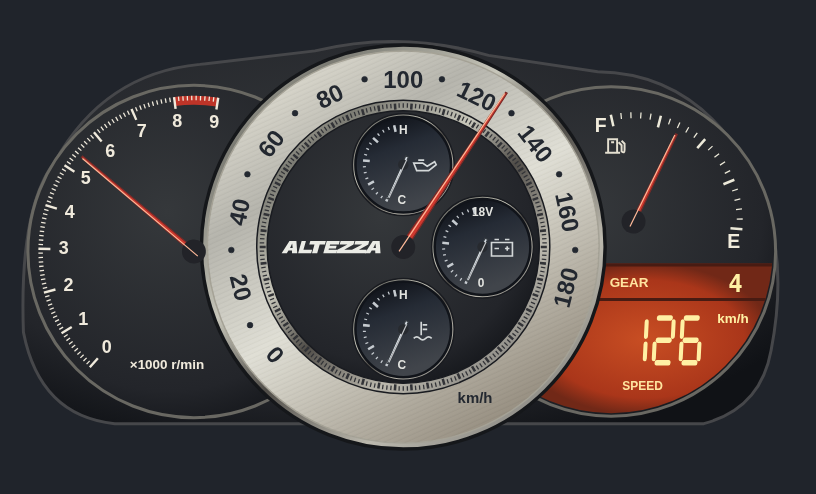
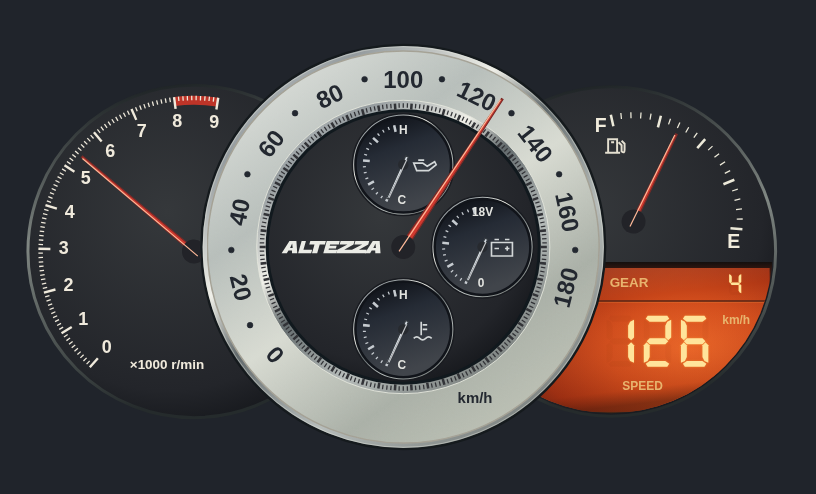
fix(hud): refine Altezza period materials and LCD layering

diff --git a/hud_overlay/altezza_trd/index.html b/hud_overlay/altezza_trd/index.html
@@ -8,6 +8,13 @@
     <style>
         #altezzaContainer { position: relative; width: 545px; height: 330px; pointer-events: none; }
         #altezzaPlate, #altezzaCanvas { position: absolute; inset: 0; width: 100%; height: 100%; }
+        .lcd-units {
+            position: absolute; left: 477px; top: 209px; width: 24px; height: 10px;
+            color: #e8b46e; font: 600 8px/10px Arial, sans-serif; text-align: right;
+        }
+        .lcd-units span { display: none; }
+        #altezzaCanvas[data-speed-unit="kmh"] + .lcd-units .kmh,
+        #altezzaCanvas[data-speed-unit="mph"] + .lcd-units .mph { display: block; }
     </style>
 </head>
 <body>
@@ -15,7 +22,8 @@
     <div class="hud-root-wrapper">
         <div class="hud-gauge-container" id="altezzaContainer">
             <img id="altezzaPlate" src="assets/chronograph.svg" alt="">
-            <canvas id="altezzaCanvas" width="545" height="330" aria-label="Toyota Altezza chronograph"></canvas>
+            <canvas id="altezzaCanvas" width="545" height="330" aria-label="Toyota Altezza chronograph" data-speed-unit="kmh"></canvas>
+            <div class="lcd-units"><span class="kmh">km/h</span><span class="mph">mph</span></div>
         </div>
     </div>
     <script src="../shared/hud-core.js"></script>
@@ -118,35 +126,62 @@
                 ctx.restore();
             }
 
-            // The seven segments occupy a fixed-width cell, so the units never move.
-            const segments = [
-                [2, 1, 10, 1], [12, 3, 12, 10], [12, 14, 12, 21], [2, 23, 10, 23],
-                [0, 14, 0, 21], [0, 3, 0, 10], [2, 12, 10, 12]
+            // One 14 × 26 cell defines the electrode proportions at every size.
+            // The extra strokes allow full-height N and R in the same segmented display.
+            const electrodes = [
+                [[2, 0], [12, 0], [13, 1.5], [11, 3], [3, 3], [1, 1.5]],
+                [[12, 3], [14, 2], [14, 11], [12.5, 12.5], [11, 11], [11, 5]],
+                [[12.5, 13.5], [14, 15], [14, 24], [12, 23], [11, 21], [11, 15]],
+                [[3, 23], [11, 23], [13, 24.5], [12, 26], [2, 26], [1, 24.5]],
+                [[1.5, 13.5], [3, 15], [3, 21], [2, 23], [0, 24], [0, 15]],
+                [[0, 2], [2, 3], [3, 5], [3, 11], [1.5, 12.5], [0, 11]],
+                [[3, 11.5], [11, 11.5], [12.5, 13], [11, 14.5], [3, 14.5], [1.5, 13]],
+                [[3.5, 4], [5.5, 4.5], [10.5, 21], [8.5, 20.5]],
+                [[7, 15], [9, 15], [11, 21], [10, 23]]
             ];
-            const digits = ['012345', '12', '01643', '01623', '5612', '05623', '056423', '012', '0123456', '012356'];
-            function lcd(value, gear) {
-                const readout = value === null ? '---' : String(Math.round(value));
+            const glyphs = {
+                '0': '012345', '1': '12', '2': '01643', '3': '01623', '4': '5612',
+                '5': '05623', '6': '056423', '7': '012', '8': '0123456', '9': '012356',
+                R: '015648', N: '12457', H: '12456', I: '12', '-': '6'
+            };
+            function lcdCharacters(text, right, top, height) {
+                const scale = height / 26;
+                const advance = 19;
                 ctx.save();
-                ctx.strokeStyle = ctx.fillStyle = '#fff0a4';
-                ctx.lineWidth = 2.7;
-                ctx.lineCap = 'round';
-                ctx.textAlign = 'right';
-                ctx.font = 'bold 16px monospace';
-                ctx.fillText(gear, 496, 195);
-                ctx.font = 'bold 9px sans-serif';
-                ctx.fillText(unit === 'mph' ? 'mph' : 'km/h', 500, 216);
-                ctx.translate(474 - readout.length * 18, 211);
-                ctx.transform(1, 0, -.07, 1.36, 0, 0);
-                for (const char of readout) {
-                    for (const index of digits[char] || '6') {
-                        const [x1, y1, x2, y2] = segments[index];
+                ctx.translate(right - ((text.length - 1) * advance + 14) * scale, top);
+                ctx.scale(scale, scale);
+                for (const char of text) {
+                    const active = glyphs[char] || glyphs['-'];
+                    electrodes.forEach((polygon, index) => {
+                        // Faint unlit electrodes are visible through the tinted glass.
+                        if (index > 6 && !active.includes(String(index))) return;
+                        const lit = active.includes(String(index));
+                        ctx.fillStyle = lit ? '#ffe49b' : 'rgba(85, 31, 12, .035)';
+                        ctx.shadowColor = 'rgba(255, 165, 58, .55)';
+                        ctx.shadowBlur = lit ? 1.8 * scale : 0;
                         ctx.beginPath();
-                        ctx.moveTo(x1, y1);
-                        ctx.lineTo(x2, y2);
-                        ctx.stroke();
-                    }
-                    ctx.translate(18, 0);
+                        polygon.forEach(([x, y], point) => point ? ctx.lineTo(x, y) : ctx.moveTo(x, y));
+                        ctx.closePath();
+                        ctx.fill();
+                    });
+                    ctx.translate(advance, 0);
                 }
+                ctx.restore();
+            }
+
+            function lcd(value, gear) {
+                const speed = value === null ? '---' : value > 999 ? 'HI' : String(Math.round(value));
+                ctx.save();
+                // Clip all LCD contents to its glass and the right-hand circular aperture.
+                ctx.beginPath();
+                ctx.arc(408, 168, 108, 0, Math.PI * 2);
+                ctx.clip();
+                ctx.beginPath();
+                ctx.rect(397, 179, 117, 96);
+                ctx.clip();
+                lcdCharacters(gear, 495, 182, 15);
+                lcdCharacters(speed, 473, 211, 34);
+                canvas.setAttribute('data-speed-unit', unit === 'mph' ? 'mph' : 'kmh');
                 ctx.restore();
             }
 
@@ -155,13 +190,21 @@
                 const speedRatio = clamp(state.speed / 180);
                 const rpmRatio = clamp(state.rpm / state.ceiling);
                 drawTachScale(state);
+                // Side instruments sit behind the central bezel, including their hands and hubs.
+                ctx.save();
+                ctx.beginPath();
+                ctx.rect(0, 0, 545, 330);
+                ctx.moveTo(405, 165);
+                ctx.arc(269, 165, 136, 0, Math.PI * 2);
+                ctx.clip('evenodd');
                 needle(129, 168, 98, 132 + 147 * (speedCenter ? rpmRatio : speedRatio), 3);
                 needle(423, 148, 65, 4 - 106 * clamp(state.fuel), 3);
+                ctx.restore();
                 needle(269, 110, 25, 115 + 142 * clamp((state.oilTempC - 60) / 90), 2, true);
                 needle(322, 165, 25, 115 + 142 * clamp(state.voltage / 18), 2, true);
                 needle(269, 220, 25, 115 + 142 * clamp((state.coolantTempC - 55) / 75), 2, true);
-                needle(269, 165, 124, 140 + 234 * (speedCenter ? speedRatio : rpmRatio), 4.6);
-                const gear = state.gear === null ? '–' : state.gear === 0 ? 'R' : state.gear === 11 ? 'N' : String(state.gear);
+                needle(269, 165, 119, 140 + 234 * (speedCenter ? speedRatio : rpmRatio), 4.6);
+                const gear = state.gear === null ? '-' : state.gear === 0 ? 'R' : state.gear === 11 ? 'N' : String(state.gear);
                 lcd(state.speed === null ? null : state.speed / (unit === 'mph' ? 1.609344 : 1), gear);
             }
 

diff --git a/docs/visual-review/altezza/README.md b/docs/visual-review/altezza/README.md
@@ -1,0 +1,13 @@
+# Altezza 視覺自我審查
+
+2026-11-23，基於 ecdafc1c 的本次修訂。此目錄圖片與同次提交的 renderer 對應。主要畫面 tach.png、speed.png 與 1080p.png 由實際 AppShell 設定頁經 launcher 載入，使用模擬遙測。settings.png 為既有選項介面，與此次修訂的設定介面相同。
+
+Linux Chromium、DPR 1、1920×1080、HUD scale 1，透明 HUD 以 #20242b 中性背景檢視。兩款 driving 畫面為 126 km/h、5,400 rpm、最高轉速 9,000 rpm、紅線 8,000 rpm、四檔及 64% 油量。元素裁切約 816×494。印刷標籤為原車風格的英文，HUD 圖面不依 AppShell 的設計系統換色。
+
+- 已檢視兩種布局的金屬圈、LCD 印刷標籤、段碼比例、N／R 字形及側錶指針遮擋。
+- 各款附倒檔、空檔英制、資料缺失、十檔、LCD 超量程與滿量程畫面。英制 100 km/h 顯示 62 mph，類比速度錶仍用 km/h。
+- 單位元素檢查每個狀態皆恰好顯示一種單位。
+- 真實 AppShell 設定保存、重載與 BroadcastChannel → launcher 的兩種錶位切換通過，瀏覽器無 pageerror。
+- 使用模擬遙測完成瀏覽器驗證，尚未進行遊戲內實機驗收。
+
+可重現各狀態的入口為 hud_overlay/altezza_trd/tests/visual/refinement.cjs。在 repository 根目錄以靜態 HTTP 服務啟動，設定 HUD_ORIGIN 指向該服務，PLAYWRIGHT_MODULE_PATH 指向已安裝 Playwright，CHROMIUM_PATH 可指定 Chromium 執行檔，再以 Node 執行該腳本。輸出條件與互斥檢查結果見 refinement-checks.json。
